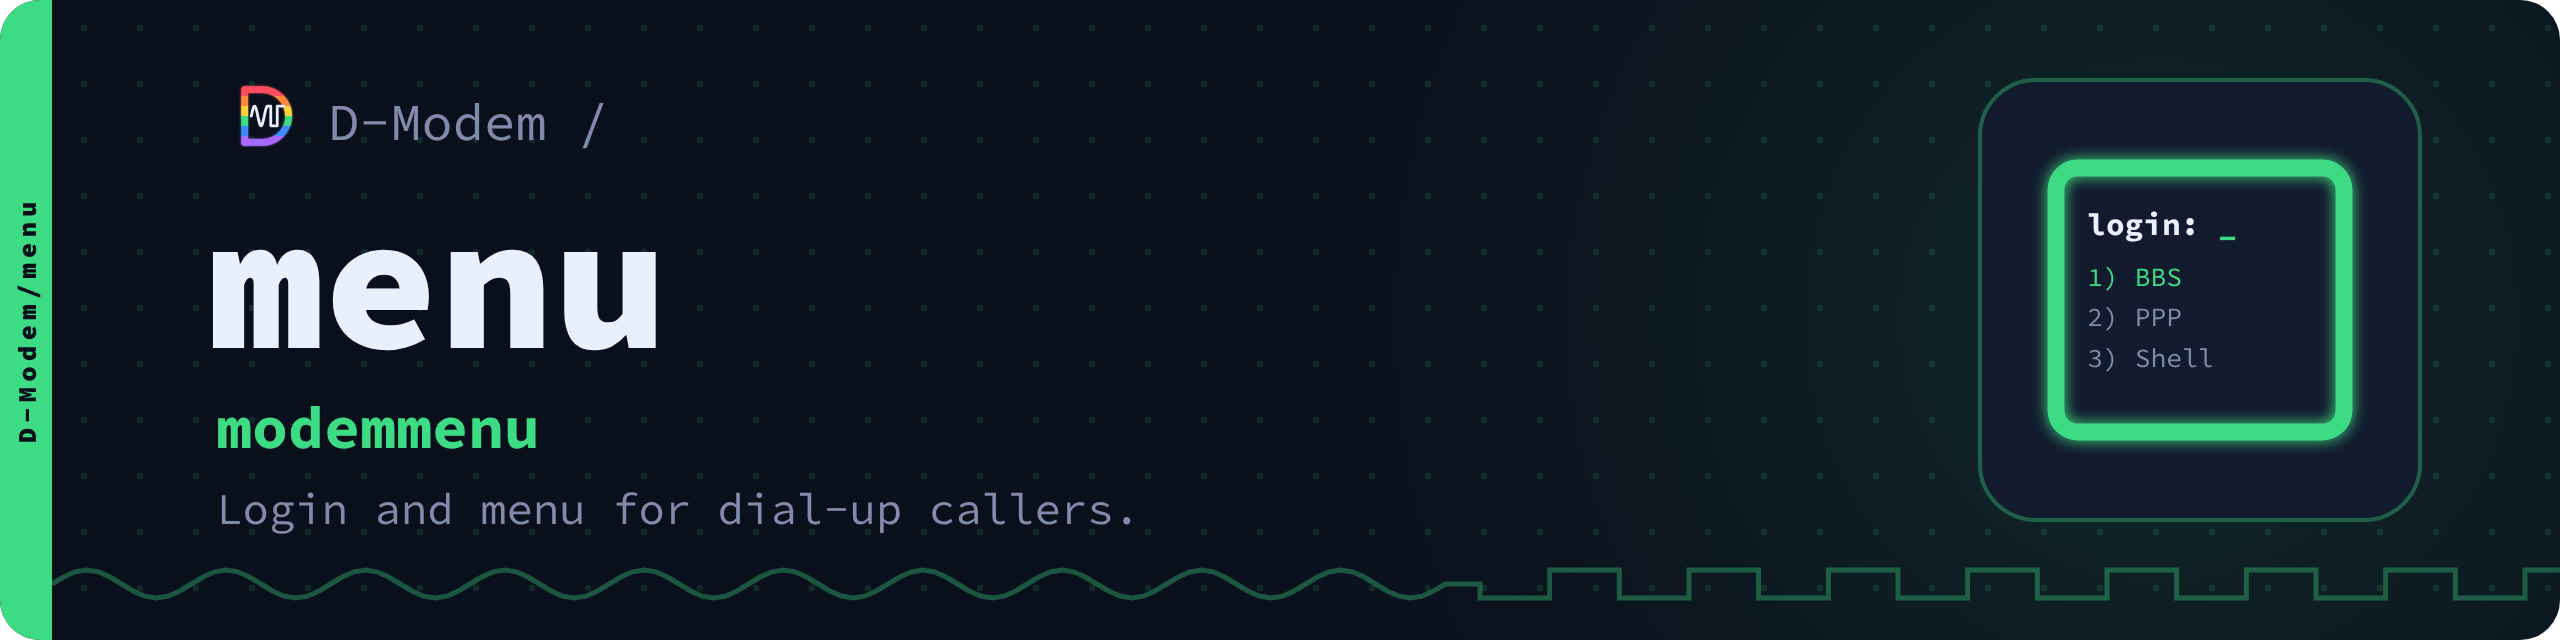
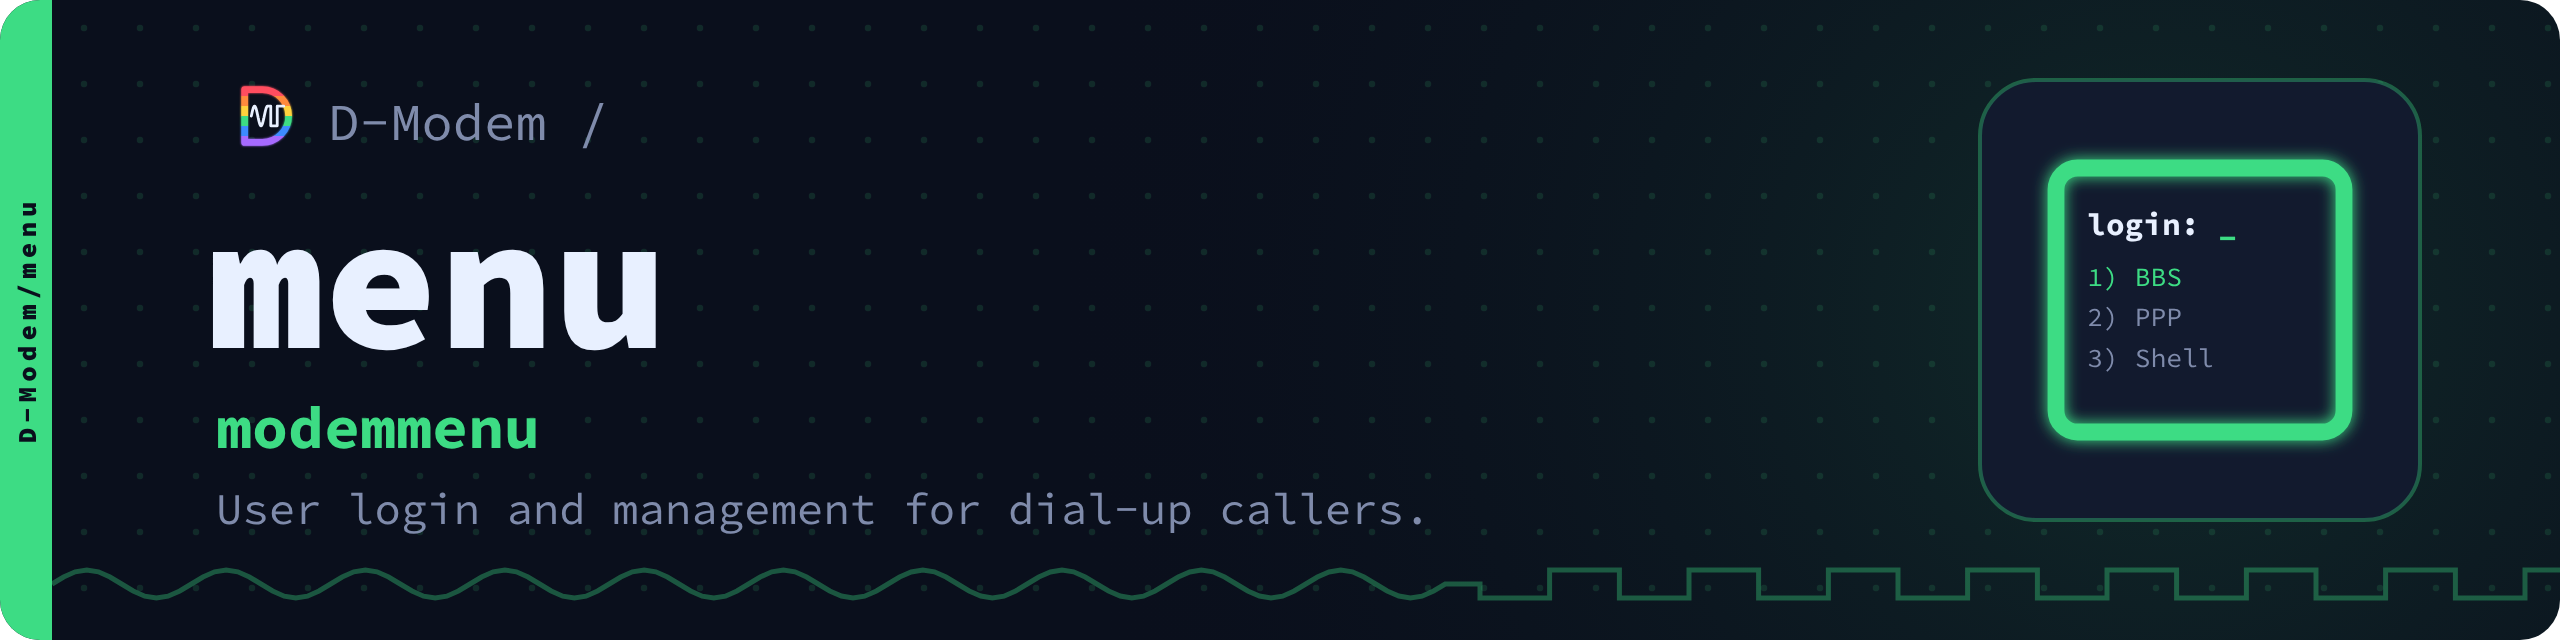
menu: "User login and management for dial-up callers"
Claude-Session: https://claude.ai/code/session_01B82eRR7XmhWoFbzJFFFqde

Changed region(s): [[0.0625, 0.75, 0.5625, 0.8438]]

diff --git a/tools/gen.py b/tools/gen.py
@@ -28,7 +28,7 @@ REPOS = {
                      tag="Go servers for 3270 terminals", sub="Build TN3270 data streams from fields.",
                      chips=["Go", "TN3270", "EBCDIC"]),
     "menu":     dict(book="Green", color=BOOK["Green"][1], icon="menu",
-                     tag="modemmenu", sub="Login and menu for dial-up callers.",
+                     tag="modemmenu", sub="User login and management for dial-up callers.",
                      chips=["Go", "PAM", "LDAP", "SQL", "PPP"]),
     # the White Book (Video CD), one of the free ones, for the brand itself
     "brand":    dict(book="White", color="#f2f4fa", icon="books",
